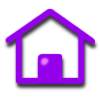
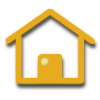
un peu de GFX, renommage de fichier et correction de fautes

Changed region(s): [[0.03, 0.06, 0.96, 0.87]]

diff --git a/pages/p_6participer.php b/pages/p_6participer.php
@@ -12,22 +12,23 @@
 		<li>Reporter un bug</li>
 		<li>Proposer une idée</li>
 		<li>Poser une question</li>
-		<li>Ajouter des fonctions ( <a href='index.php?go=3api'>page développeurs</a> )</li>
+		<li>Ajouter des fonctions ( <a href='index.php?go=3api'>cf. page développeurs</a> )</li>
 	</ul>
 
 	<h2>Création d'un compte sur GitHub</h2>
 	Pour pouvoir participer il faut vous connecter sur le site <a href="https://github.com/" target="_new">GitHub</a>.
 	Si vous n'avez pas de compte dessus, il faut en créer un ( 10 secondes, c'est gratuit ) afin que nous puissions vous répondre / demander des compléments d'information ( pour reproduire un bug par exemple ).
-	
+
 	<p align="center">
-	<img src="gfx/git-tuto/create_account.jpg" width="50%" border=2/>
+		<img src="gfx/git-tuto/create_account.jpg" width="500" border=2 />
 	</p>
 
 	<h2>Ajouter un bug</h2>
 	Ci dessous la fenetre d'ajout de bug. ( <a href="https://github.com/RobertManager/robert/issues/new" target="_new"/>lien direct</a> )
 
 	<p align ="center">
-	<img src="gfx/git-tuto/add_bug.jpg" width="50%" border=2/></p>
+		<img src="gfx/git-tuto/add_bug.jpg" width="600" border=2 />
+	</p>
 	<u>Informations essentielles</u> :
 	<ul>
 		<li><b>Le titre</b> de votre ticket</li>
@@ -40,13 +41,14 @@
 		<li><b>Question</b> - Quelque chose que vous ne comprenez pas</li>
 	</ul>
 
-	<u>Mise en forme du texte</u> : Les raccourcis permettants de mettre votre texte en forme sont listés dans la fenetre qui s'ouvre en cliquant sur le lien 'GitHub Flavored Markdown'.
-	Il s'agit d'un mode rapide de mise en forme du texte par exemple pour mettre en texte en gras il faut mettre deux étoiles ( multiplier sur le clavier ) qui entourent votre texte : <p align="center">**<b>Le texte a l'intérieur des étoiles est en gras</b>**</p>
-	Quand vous avez finis, vous pouvez cliquer sur l'onglet preview pour voir le formattage.
+	<u>Mise en forme du texte</u> : Les raccourcis permettant de mettre votre texte en forme sont listés dans la fenêtre qui s'ouvre en cliquant sur le lien 'GitHub Flavored Markdown'.
+	Il s'agit d'un mode rapide de mise en forme du texte. Par exemple, pour mettre en texte en gras, il faut mettre deux étoiles ("multiplier", sur le clavier) qui entourent votre texte :
+	<p align="center">**<b>Le texte a l'intérieur des étoiles est en gras</b>**</p>
+	Quand vous avez terminé, vous pouvez cliquer sur l'onglet preview pour voir le formattage.
 
-	<p>Voila vous pouvez maintenant cliquer sur <b>SUBMIT NEW ISSUE</b>, pour que tous les développeurs reçoivent un mail qui les alerte de votre problème ou de votre suggestion</p>
+	<p>Voilà, vous pouvez maintenant cliquer sur <b>SUBMIT NEW ISSUE</b>, pour que tous les développeurs reçoivent un mail qui les alerte de votre problème ou de votre suggestion</p>
 
 	<p>&nbsp;</p>
-	
-	
+
+
 </div>
